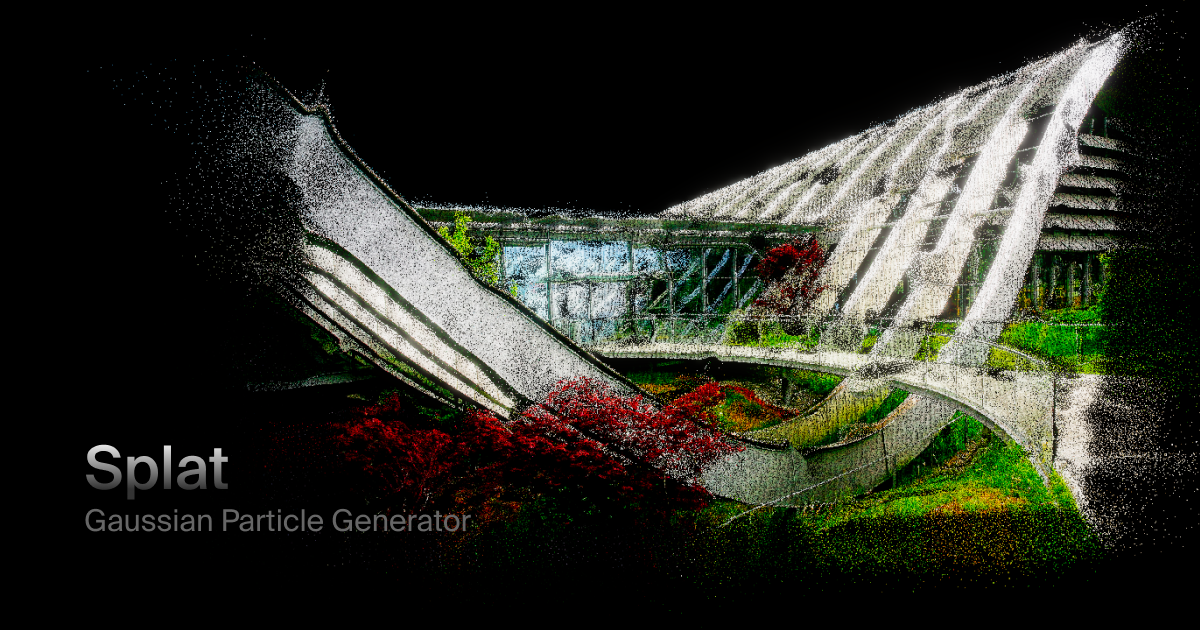
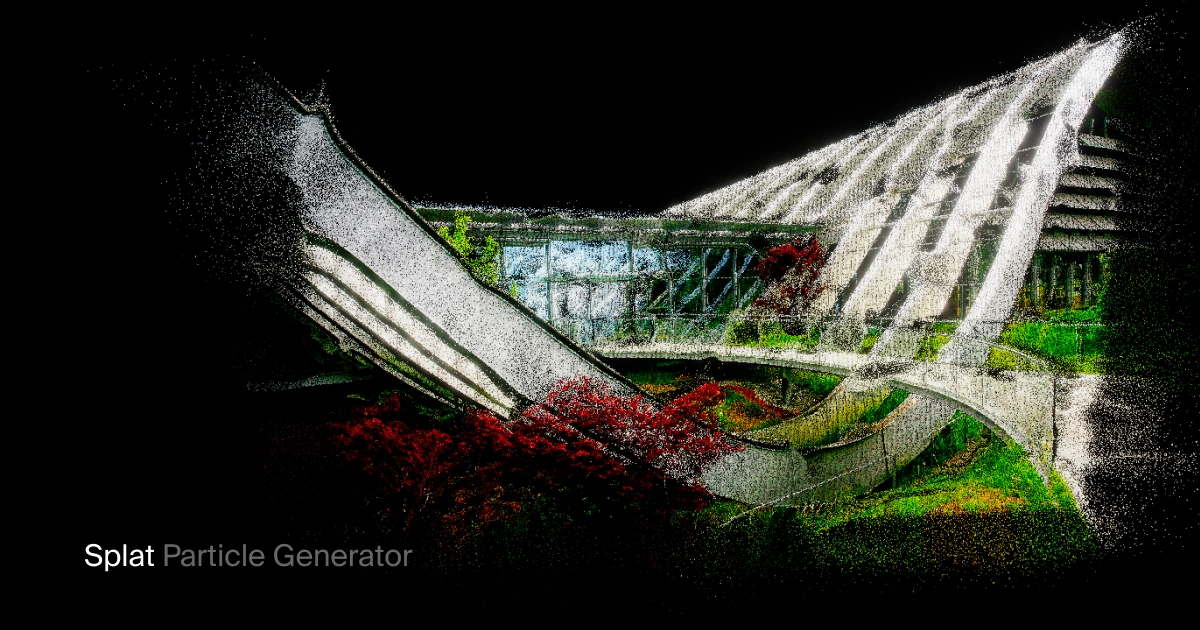
Improve image panel

diff --git a/src/components/ImagePanel.tsx b/src/components/ImagePanel.tsx
@@ -1,6 +1,6 @@
 "use client";
 
-import { ImageIcon, LoaderCircle, Sparkles, Upload } from "lucide-react";
+import { LoaderCircle, Sparkles } from "lucide-react";
 import { AnimatePresence, motion } from "motion/react";
 import {
 	type ChangeEvent,
@@ -21,6 +21,7 @@ import type {
 	GenerationJobStatus,
 	SceneAsset,
 } from "@/shared/types";
+import { ChevronRightIcon } from "@/src/components/icons";
 import Button from "@/src/components/ui/button";
 import ScrollArea from "@/src/components/ui/scroll-area";
 import { cn } from "@/src/lib/utils";
@@ -246,12 +247,12 @@ export default function ImagePanel({
 					<motion.aside
 						ref={panelRef}
 						key="images-panel"
-						initial={{ opacity: 0, y: 8, scale: 0.98, filter: "blur(4px)" }}
-						animate={{ opacity: 1, y: 0, scale: 1, filter: "blur(0px)" }}
-						exit={{ opacity: 0, y: 6, scale: 0.98, filter: "blur(4px)" }}
+						initial={{ opacity: 0, y: 8, scale: 0.98 }}
+						animate={{ opacity: 1, y: 0, scale: 1 }}
+						exit={{ opacity: 0, y: 6, scale: 0.98 }}
 						transition={{ duration: 0.18, ease: [0.23, 1, 0.32, 1] }}
 						style={{ borderRadius: "10px", transformOrigin: "right bottom" }}
-						className="pointer-events-auto fixed right-5 bottom-[68px] flex max-h-[calc(100dvh-88px)] w-[min(320px,calc(100vw-40px))] flex-col gap-1 overflow-hidden border border-white/5 bg-neutral-900/70 p-1 backdrop-blur-[20px]"
+						className="pointer-events-auto fixed right-5 bottom-[68px] flex max-h-[calc(100dvh-88px)] w-[min(320px,calc(100vw-40px))] flex-col gap-1"
 					>
 						{enableUploads ? (
 							<UploadDropzone
@@ -301,11 +302,18 @@ export default function ImagePanel({
 					type="button"
 					aria-label={isOpen ? "Hide images panel" : "Show images panel"}
 					aria-expanded={isOpen}
-					icon={<ImageIcon />}
+					icon={
+						<ChevronRightIcon
+							className={cn(
+								"size-4 transition-transform duration-150",
+								isOpen && "-rotate-90",
+							)}
+						/>
+					}
 					onClick={() => setIsOpen((value) => !value)}
 					className={cn(
-						"h-9 px-3 text-neutral-300 shadow-xl shadow-black/25",
-						isOpen && "bg-neutral-800/65",
+						"h-9 gap-1.5 pr-4 pl-2 text-neutral-400 shadow-xl shadow-black/25 hover:text-neutral-300",
+						isOpen && "bg-neutral-800/65 text-neutral-300",
 					)}
 				>
 					Images
@@ -355,7 +363,7 @@ function UploadDropzone({
 			<button
 				type="button"
 				className={cn(
-					"relative flex h-32 shrink-0 flex-col items-center justify-center gap-2 overflow-hidden rounded-[8px] bg-neutral-800/50 text-neutral-400 transition-colors hover:bg-neutral-800/60 hover:text-neutral-300",
+					"relative flex h-32 shrink-0 flex-col items-center justify-center gap-2 overflow-hidden rounded-[8px] bg-neutral-800/50 text-neutral-400 backdrop-blur-[20px] transition-colors hover:bg-neutral-800/60 hover:text-neutral-300",
 					isDragging &&
 						"bg-cyan-400/10 text-neutral-200 ring-1 ring-cyan-300/70",
 				)}
@@ -373,9 +381,6 @@ function UploadDropzone({
 						className="absolute inset-0 size-full object-cover opacity-45"
 					/>
 				) : null}
-				<span className="relative flex size-7 items-center justify-center rounded-full bg-black/25">
-					<Upload className="size-4" aria-hidden="true" />
-				</span>
 				<span className="relative max-w-56 truncate text-xs leading-3 font-semibold">
 					{selectedFile ? selectedFile.name : "Drop image or click to browse"}
 				</span>
@@ -472,7 +477,7 @@ function SceneListItem({
 			type="button"
 			aria-current={isActive ? "true" : undefined}
 			className={cn(
-				"flex h-9 items-center gap-2 rounded-[8px] bg-neutral-800/50 px-3 text-left text-xs leading-3 font-semibold text-neutral-400 transition-colors hover:bg-neutral-800/65 hover:text-neutral-300",
+				"flex h-9 items-center gap-2 rounded-[8px] bg-neutral-800/50 px-3 text-left text-xs leading-3 font-semibold text-neutral-400 backdrop-blur-[20px] transition-colors hover:bg-neutral-800/65 hover:text-neutral-300",
 				isActive && "text-neutral-300",
 			)}
 			onClick={() => onSceneSelect(scene)}

diff --git a/src/components/icons/chevron-right.tsx b/src/components/icons/chevron-right.tsx
@@ -1,0 +1,21 @@
+import { forwardRef } from "react";
+
+import { IconBase, type IconProps } from "./icon-base";
+
+export const ChevronRightIcon = forwardRef<SVGSVGElement, IconProps>(
+	function ChevronRightIcon(props, ref) {
+		return (
+			<IconBase ref={ref} {...props}>
+				<path
+					d="M10 16L12.9393 13.0607C13.5251 12.4749 13.5251 11.5251 12.9393 10.9393L10 8"
+					stroke="currentColor"
+					strokeWidth="2"
+					strokeLinecap="round"
+					strokeLinejoin="round"
+				/>
+			</IconBase>
+		);
+	},
+);
+
+ChevronRightIcon.displayName = "ChevronRightIcon";

diff --git a/src/components/icons/index.ts b/src/components/icons/index.ts
@@ -1,5 +1,6 @@
 export { BloomIcon } from "./bloom";
 export { CameraIcon } from "./camera";
+export { ChevronRightIcon } from "./chevron-right";
 export { ColorIcon } from "./color";
 export { DownloadIcon } from "./download";
 export { GithubIcon } from "./github";
